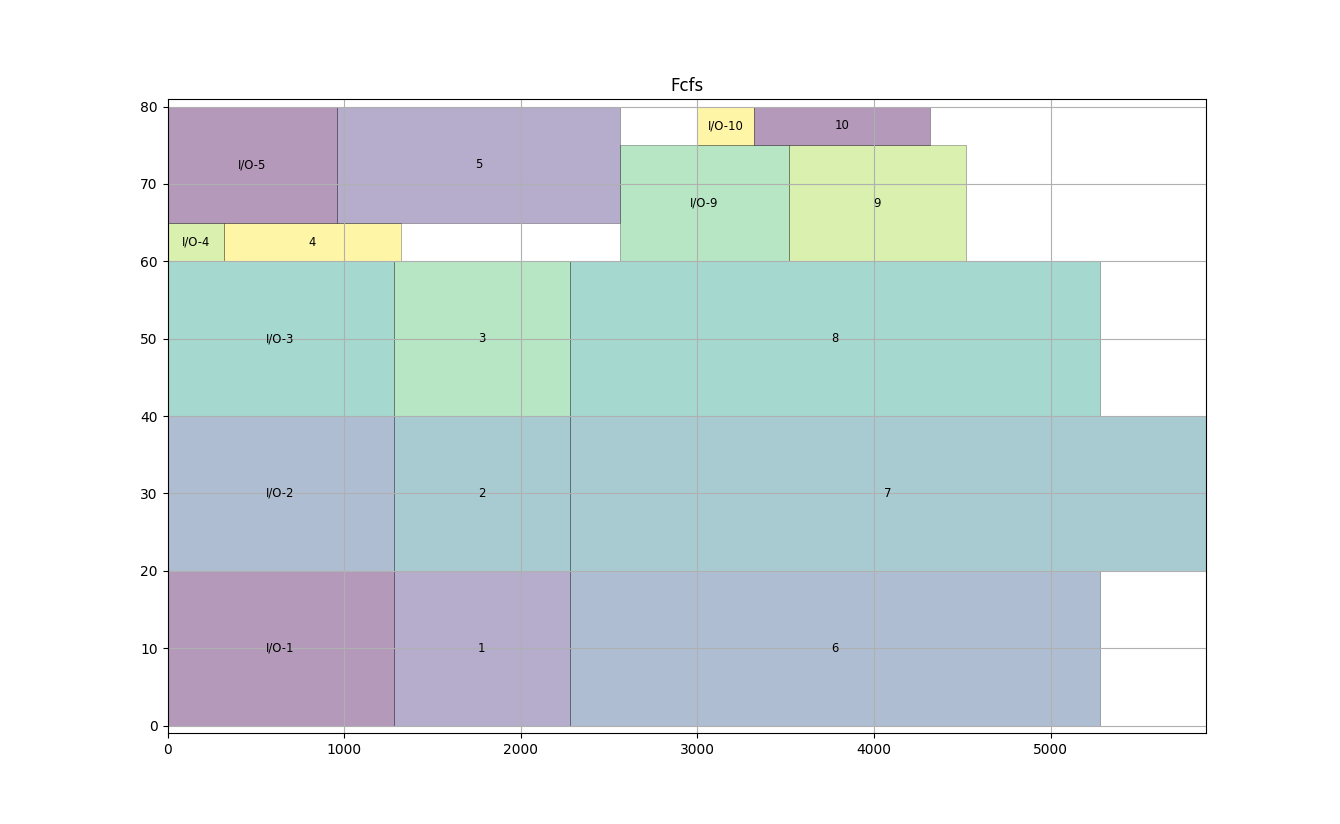
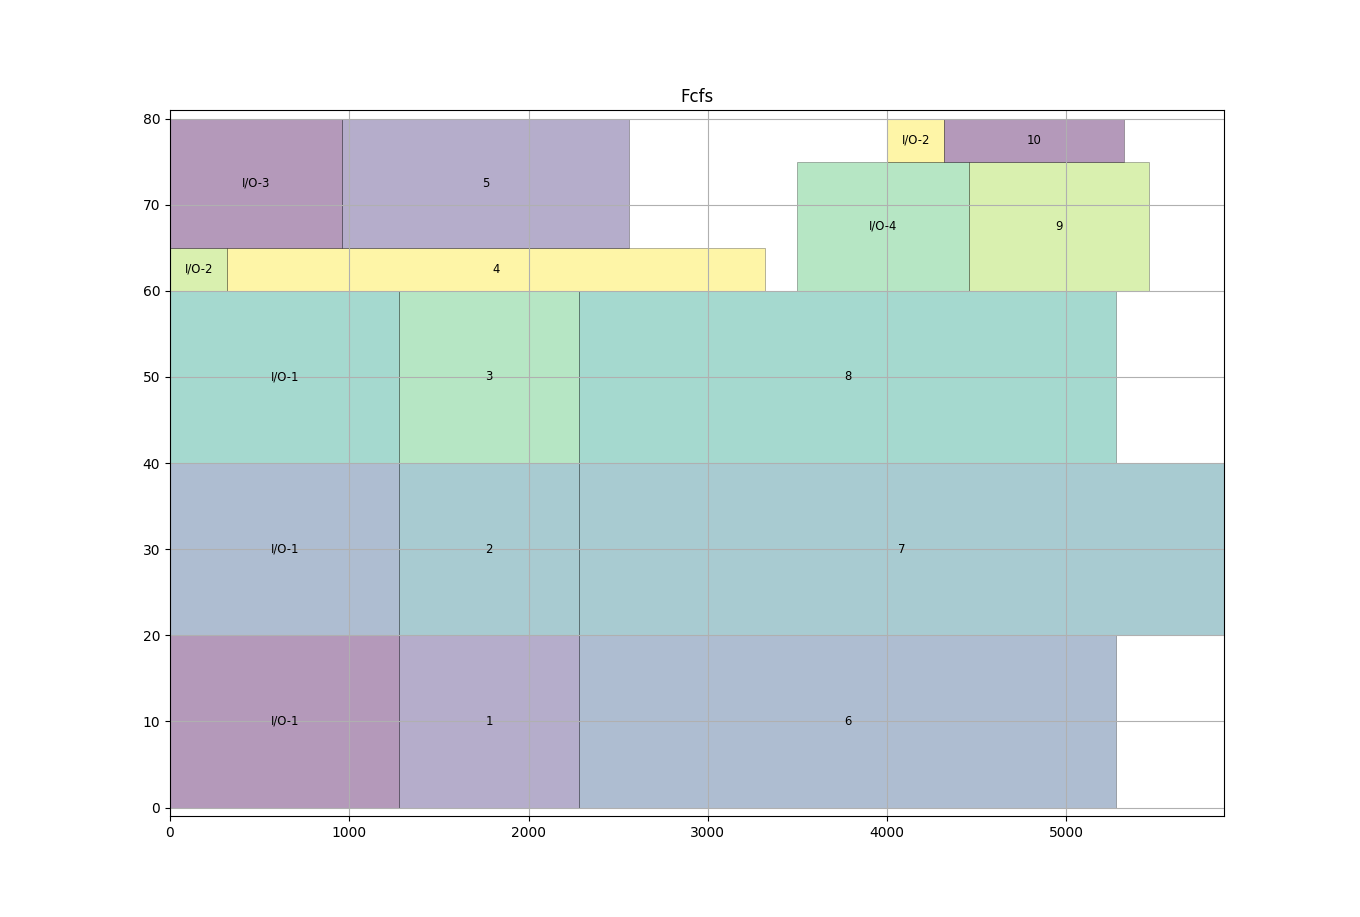
first version for data persistence

diff --git a/MBSS/C/basic_functions.c b/MBSS/C/basic_functions.c
@@ -1920,9 +1920,9 @@ void schedule_job_specific_node_at_earliest_available_time(struct Job* j, struct
 
 void add_data_in_node (int data_unique_id, int data_size, struct Node* node_used, int t, int end_time, int* transfer_time, int* waiting_for_a_load_time)
 {
-	#ifdef PRINT
-	printf("Adding data %d on node %d at time %d.\n", data_unique_id, node_used->unique_id, t); fflush(stdout);
-	#endif
+	//~ #ifdef PRINT
+	printf("\nChecking data %d on node %d at time %d.\n", data_unique_id, node_used->unique_id, t); fflush(stdout);
+	//~ #endif
 	
 	bool data_is_on_node = false;
 	/* Let's try to find it in the node */
@@ -1932,6 +1932,37 @@ void add_data_in_node (int data_unique_id, int data_size, struct Node* node_used
 	{
 		if (data_unique_id == d->unique_id) /* It is already on node */
 		{
+			#ifdef DATA_PERSISTENCE
+			//~ if (d->nb_task_using_it > 0 || d->end_time == t) /* And is still valid! */
+			//~ {
+				if (d->start_time > t) /* The job will have to wait for the data to be loaded by another job before starting */
+				{
+					*waiting_for_a_load_time = d->start_time - t;
+				}
+				else
+				{
+					*transfer_time = 0; /* No need to wait to start the job, data is already fully loaded */
+				}
+			//~ }
+			//~ else /* Need to reload it */
+			//~ {
+				//~ *transfer_time = data_size/node_used->bandwidth;
+				//~ d->start_time = t + *transfer_time;
+				
+				//~ #ifdef DATA_PERSISTENCE
+				//~ node_used->data_occupation += d->size;
+				//~ #endif
+			//~ }
+			
+			data_is_on_node = true;
+			d->nb_task_using_it += 1;
+			
+			if (d->end_time < end_time)
+			{
+				d->end_time = end_time;
+			}
+			break;			
+			#else
 			if (d->nb_task_using_it > 0 || d->end_time == t) /* And is still valid! */
 			{
 				if (d->start_time > t) /* The job will have to wait for the data to be loaded by another job before starting */
@@ -1957,6 +1988,7 @@ void add_data_in_node (int data_unique_id, int data_size, struct Node* node_used
 				d->end_time = end_time;
 			}
 			break;
+			#endif
 		}
 		d = d->next;
 	}
@@ -1973,7 +2005,51 @@ void add_data_in_node (int data_unique_id, int data_size, struct Node* node_used
 		new->next = NULL;
 		new->intervals = (struct Interval_List*) malloc(sizeof(struct Interval_List));
 		insert_tail_data_list(node_used->data, new);
+		
+		#ifdef DATA_PERSISTENCE
+		node_used->data_occupation += new->size;
+		#endif
 	}
+	
+	#ifdef DATA_PERSISTENCE
+	while (node_used->data_occupation > 128) /* Need an eviction */
+	{
+		printf("node_used->data_occupation > 128\n");
+		struct Data* d_temp = node_used->data->head;
+		struct Data* data_to_evict = (struct Data*) malloc(sizeof(struct Data));
+		int min_end_time = INT_MAX;
+		while (d_temp != NULL)
+		{
+			printf("Testing data %d (end_time %d) to evict.\n", d_temp->unique_id, d_temp->end_time);
+			if (d_temp->unique_id != data_unique_id)
+			{
+				if (min_end_time > d_temp->end_time)
+				{
+					min_end_time = d_temp->end_time;
+					data_to_evict = d_temp;
+				}
+			}
+			d_temp = d_temp->next;
+		}
+		if (data_to_evict == NULL || data_to_evict->nb_task_using_it > 0)
+		{
+			if (data_to_evict == NULL)
+			{
+				printf("Error data_to_evict NULL.\n"); fflush(stdout);
+			}
+			else
+			{
+				printf("data_to_evict (%d) ->nb_task_using_it > 0.\n", data_to_evict->unique_id); fflush(stdout);
+			}
+			exit(1);
+		}
+		data_to_evict->end_time = t - 1;
+		printf("Evicting data %d size %f.\n", data_to_evict->unique_id, data_to_evict->size);
+		node_used->data_occupation -= data_to_evict->size;
+		delete_specific_data_from_node(node_used->data, data_to_evict->unique_id);
+	}
+	printf("After checking data, occupation is %f.\n", node_used->data_occupation);
+	#endif
 }
 
 void remove_data_from_node(struct Job* j, int t)
@@ -2099,9 +2175,9 @@ void start_jobs(int t, struct Job* head)
 				}
 			//~ }
 			
-			#ifdef PRINT
+			//~ #ifdef PRINT
 			printf("For job %d (delay = %d): %d transfer time and %d waiting for a load time. Overhead is %d\n", j->unique_id, j->delay, transfer_time, waiting_for_a_load_time, overhead_of_load); fflush(stdout);
-			#endif
+			//~ #endif
 			
 			if (j->delay + overhead_of_load < j->walltime)
 			{
@@ -2125,9 +2201,9 @@ void start_jobs(int t, struct Job* head)
 			
 			insert_next_time_in_sorted_list(end_times, j->end_time);
 			
-			#ifdef PRINT
+			//~ #ifdef PRINT
 			printf("==> Job %d %d cores start at time %d on node %d and will end at time %d before walltime: %d transfer time is %d data was %d.\n", j->unique_id, j->cores, t, j->node_used->unique_id, j->end_time, j->end_before_walltime, transfer_time, j->data);
-			#endif
+			//~ #endif
 			
 			
 			/*For easy bf */

diff --git a/MBSS/C/linked_list_functions.c b/MBSS/C/linked_list_functions.c
@@ -511,6 +511,67 @@ void delete_job_linked_list(struct Job_List* liste, int unique_id_to_delete)
 	//~ printf("free temp ok!.\n"); fflush(stdout); }
 }
 
+void delete_specific_data_from_node(struct Data_List* liste, int unique_id_to_delete)
+{
+    if (liste == NULL)
+    {
+		printf("Error list empty.\n"); fflush(stdout);
+        exit(EXIT_FAILURE);
+    }
+
+	struct Data* temp = liste->head;
+	struct Data* prev = liste->head;
+	
+	// If head node itself holds the key to be deleted
+    if (temp != NULL && temp->unique_id == unique_id_to_delete) {
+        liste->head = temp->next; // Changed head
+        //~ if (unique_id_to_delete == 11) {
+			//~ printf("Free the head.\n"); fflush(stdout); }
+        free(temp); // free old head
+        //~ if (unique_id_to_delete == 11) {
+        //~ printf("Free the head Ok!\n"); fflush(stdout); }
+        return;
+    }
+	
+	while (temp->unique_id != unique_id_to_delete && temp != NULL)
+	{
+		//~ if (unique_id_to_delete == 11) {
+		//~ printf("prev (%d) get temp.\n", prev->unique_id); fflush(stdout); }
+		prev = temp;
+		//~ if (unique_id_to_delete == 11) {
+		//~ printf("temp is %d and next is %d.\n", temp->unique_id, temp->next->unique_id); fflush(stdout); }
+		temp = temp->next;
+	}
+	//~ if (unique_id_to_delete == 11) {
+	//~ printf("temp is %d. Next is %d\n", temp->unique_id, temp->next->unique_id); fflush(stdout); }
+	if (temp == NULL)
+	{
+		printf("Error, deletion of data %d failed.\n", unique_id_to_delete); fflush(stdout);
+		exit(EXIT_FAILURE);
+	}
+	//~ if (unique_id_to_delete == 11) {
+		//~ printf("Next.\n"); fflush(stdout); }
+	prev->next = temp->next;
+	//~ if (unique_id_to_delete == 11) {
+	//~ printf("Will free temp = %d.\n", temp->unique_id); fflush(stdout); }
+	
+	if (unique_id_to_delete != temp->unique_id)
+	{
+		printf("ERROR!\n"); fflush(stdout);
+		exit(EXIT_FAILURE);
+	}
+	
+	/* OLD */
+	//~ free(temp);
+	/* NEW */
+	// free(temp->node_used);
+	//~ free(temp->cores_used);
+	free(temp);
+	
+	//~ if (unique_id_to_delete == 11) {
+	//~ printf("free temp ok!.\n"); fflush(stdout); }
+}
+
 /* Copy a job, delete it from list 1 and add it in tail of list 2. */
 void copy_delete_insert_job_list(struct Job_List* to_delete_from, struct Job_List* to_append_to, struct Job* j)
 {

diff --git a/todo.tex b/todo.tex
@@ -149,12 +149,12 @@
 
 		% Uppsala
 		\item Jan 21: 15295 jobs: 617333/14395675 (4.2\%) tie break (avant le evicted file du coup). Donc faut-il l'utilise comme tiebreak ?
+		\item L'ajout de données persistente pose le pb de l'eviction. Je vais faire un LRU qui evince la donnée qui a été fini d'utilisé il y a le + longmemsp (j'aurais aussi pu faire celle qui a commencé le + longemps)
 	\end{enumerate}
 	
 \section{Questions for next meeting}
 	\begin{enumerate}
 		\item Faire de multiplier evicted file un tie breaker seulement ? Pareil avec nb of copy en second tiebreaker ? Comme ça on enlève un peu ce côté mélange de scores. On peut meme l'ajouter au locality only comme tie breaker avant le EAT ?
-		\item we have a binary case (a data is on the node or not, can't be half loaded because of an eviction), a future work is a non binary case ?
 		\item Quand j'ai le choix entre utiliser un trou ou non et que dans les 2 cas ca passe, je dois le faire ? Pour le moment si j'ai le choix, je ne vais pas dans le trou. Dnas mon code corrigé si j'ai le choix je vais dans le trou
 		\item quand je me met dans un trou, si le walltime du job qui forcait au backfil se révèle plus petit mais que mon job backfill a déjà commencé, alors ca delay mon job plus gros (mais pas plus qu ce qu'il aurait attendu si le walltime était correct)
 	\end{enumerate}

diff --git a/MBSS/C/main.c b/MBSS/C/main.c
@@ -107,6 +107,14 @@ int main(int argc, char *argv[])
 		exit(1);
 	}
 	
+	#ifdef DATA_PERSISTENCE
+	if (constraint_on_sizes != 0)
+	{
+		printf("Constraint on sizes not dealt with if it's not 0 with data persistence (because of the way I look at the memory usage of a node.\n");
+		exit(1);
+	}
+	#endif
+	
 	printf("Workloads: %s\n", input_job_file);
 	printf("Cluster: %s\n", input_node_file);
 	printf("Scheduler: %s\n", scheduler);
@@ -884,6 +892,10 @@ int main(int argc, char *argv[])
 						new->cores_in_a_hole->head = NULL;
 						new->cores_in_a_hole->tail = NULL;
 						
+						#ifdef DATA_PERSISTENCE
+						new->data_occupation = n->data_occupation;
+						#endif
+						
 						/* Insert node */
 						new->next = NULL;
 						insert_tail_node_list(fake_node_list[i], new);
@@ -975,6 +987,10 @@ int main(int argc, char *argv[])
 						new->cores_in_a_hole = malloc(sizeof(*new->cores_in_a_hole));
 						new->cores_in_a_hole->head = NULL;
 						new->cores_in_a_hole->tail = NULL;
+						
+						#ifdef DATA_PERSISTENCE
+						new->data_occupation = n->data_occupation;
+						#endif
 						
 						/* Insert node */
 						new->next = NULL;

diff --git a/MBSS/C/main.h b/MBSS/C/main.h
@@ -145,6 +145,11 @@ struct Node {
     struct Core_in_a_hole_List* cores_in_a_hole;
     //~ int* cores_in_a_hole;
     //~ int* start_time_of_the_hole; /* Temps auquel le trou n'existera plus. Il y a en a 1 par core car 2 jobs aux starts times différents peuvent créer des trou sur une node. */
+    
+    /* Pour les data qui restent si rien ne les remplacent */
+    #ifdef DATA_PERSISTENCE
+    float data_occupation; /* From 0 to 128 */
+    #endif
 };
 
 struct Core_in_a_hole_List {
@@ -292,6 +297,7 @@ void insert_cores_in_a_hole_list_sorted_decreasing_order(struct Core_in_a_hole_L
 void delete_core_in_hole_from_head(struct Core_in_a_hole_List* liste, int nb_cores_to_delete);
 void free_cores_in_a_hole(struct Core_in_a_hole** head_ref);
 void delete_core_in_hole_specific_core(struct Core_in_a_hole_List* liste, int unique_id_to_delete);
+void delete_specific_data_from_node(struct Data_List* liste, int unique_id_to_delete);
 
 /* From scheduler.c */
 void get_state_before_day_0_scheduler(struct Job* j, struct Node_List** n, int t);

diff --git a/MBSS/C/read_input_files.c b/MBSS/C/read_input_files.c
@@ -88,6 +88,10 @@ void read_cluster(char* input_node_file)
 		new->cores_in_a_hole->head = NULL;
 		new->cores_in_a_hole->tail = NULL;
 		
+		#ifdef DATA_PERSISTENCE
+		new->data_occupation = 0; /* From 0 to 20 */
+		#endif
+
 		new->next = NULL;
 		if (new->memory == 128)
 		{
